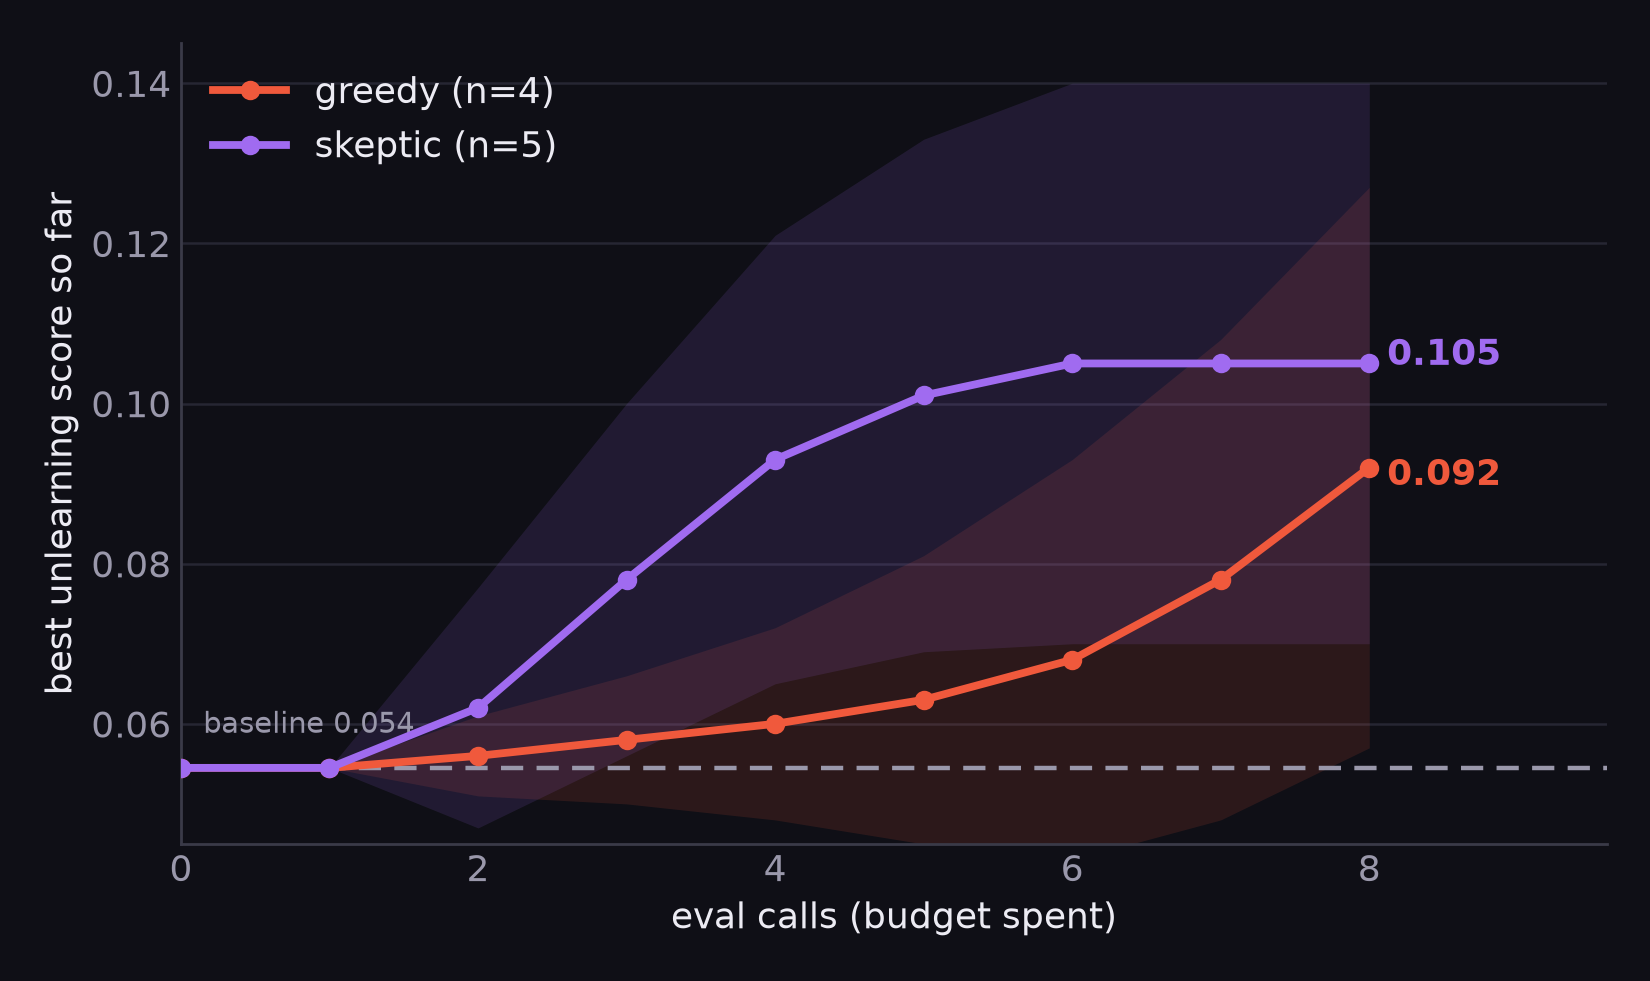
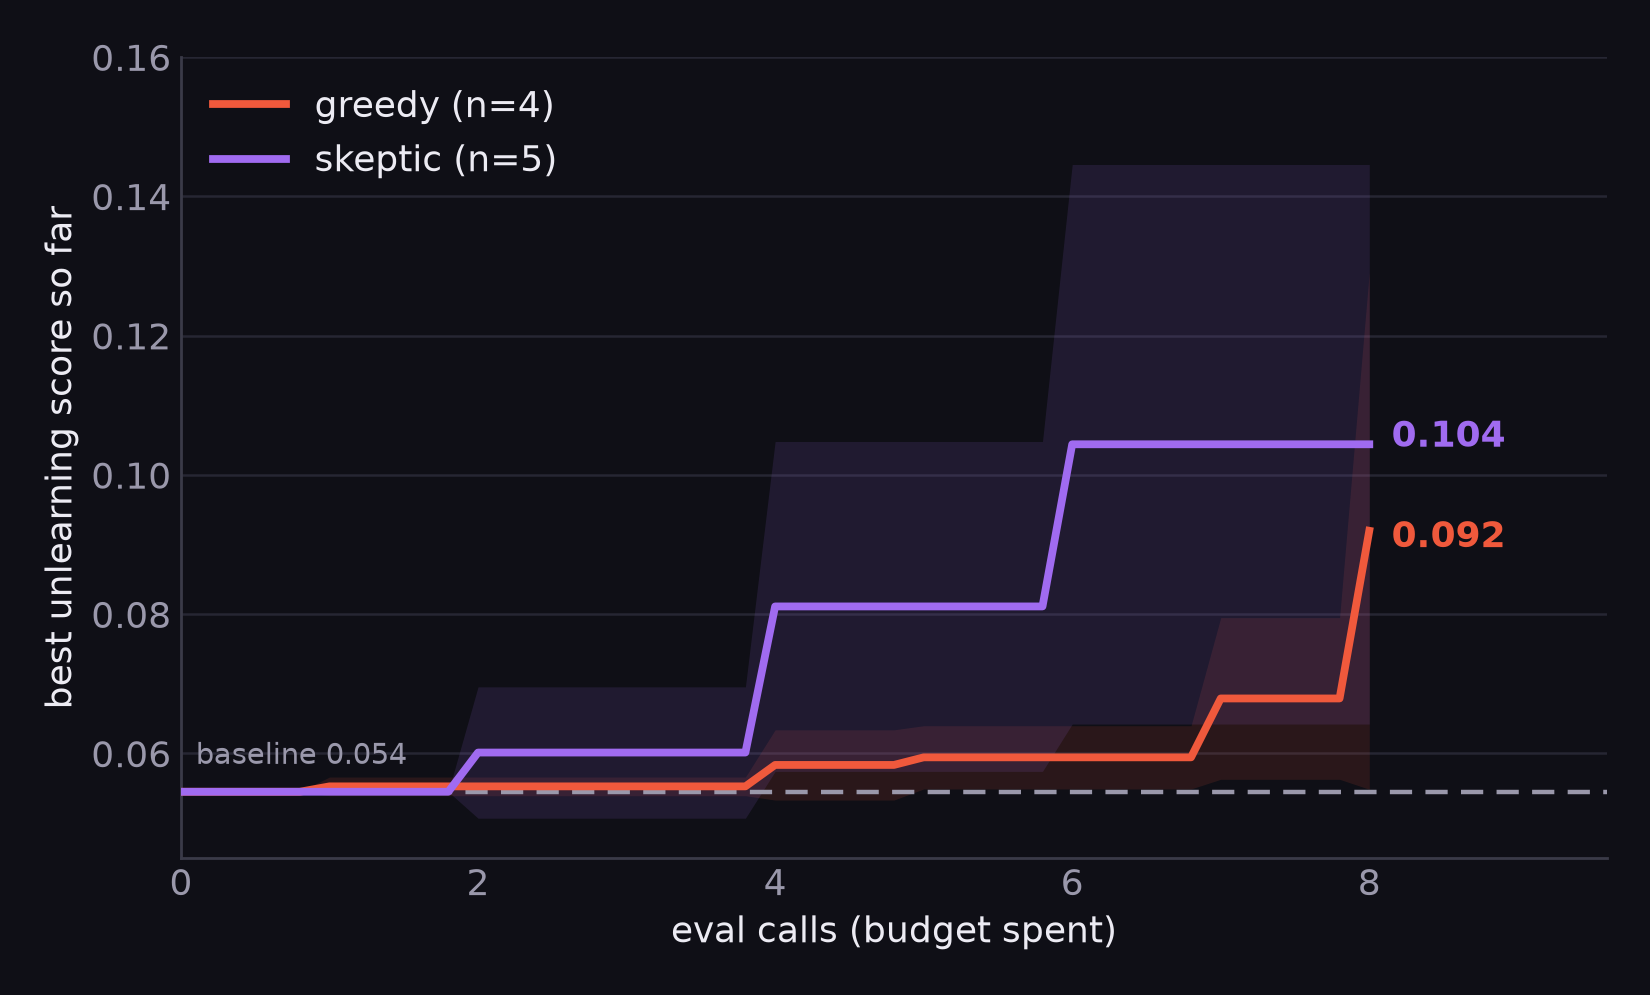
slides: real-data MLRC figure (budget-spent x-axis) + run logs + updated make_figs

diff --git a/slides/make_figs.py b/slides/make_figs.py
@@ -191,25 +191,54 @@ def skeptic_value():
 # =====================================================================
 # MLRC Machine Unlearning — greedy vs skeptic score progression
 # =====================================================================
+MLRC_DIR = Path(__file__).resolve().parent / "mlrc_runs"
+
+def _mu_runs(arm):
+    """Read each run's (budget_spent, best-so-far) trajectory from results.jsonl."""
+    import glob
+    runs = []
+    for f in sorted(glob.glob(str(MLRC_DIR / f"mlrc_{arm}_*.jsonl"))):
+        pts = []
+        for line in open(f):
+            d = json.loads(line)
+            if d.get("kind") == "baseline":
+                pts.append((0.0, d["score"]))
+            else:
+                pts.append((d["budget_spent_after"], d["incumbent_best"]))
+        if pts:
+            runs.append(sorted(pts))
+    return runs
+
+def _stepfill(pts, grid):
+    """Forward-fill best-so-far onto a common budget grid (x = eval calls spent)."""
+    out = []
+    for b in grid:
+        v = pts[0][1]
+        for pb, pv in pts:
+            if pb <= b + 1e-9: v = pv
+            else: break
+        out.append(v)
+    return np.array(out)
+
 def mlrc_result():
-    b = np.arange(0, 9); base = 0.0545
-    causal_m = np.array([0.0545,0.0545,0.062,0.078,0.093,0.101,0.105,0.105,0.105])
-    causal_s = np.array([0.0,0.0,0.015,0.022,0.028,0.032,0.035,0.035,0.035])
-    greedy_m = np.array([0.0545,0.0545,0.056,0.058,0.060,0.063,0.068,0.078,0.092])
-    greedy_s = np.array([0.0,0.0,0.005,0.008,0.012,0.018,0.025,0.030,0.035])
+    # REAL data from the team's MLRC runs; x = cumulative eval calls (budget spent),
+    # so greedy and causal both span 0->8 at equal compute (not the proposal-index axis).
+    grid = np.arange(0, 8.0001, 0.2); base = 0.0545
+    greedy = np.array([_stepfill(r, grid) for r in _mu_runs("greedy")])
+    causal = np.array([_stepfill(r, grid) for r in _mu_runs("causal")])
+    gm, gs = greedy.mean(0), greedy.std(0)
+    cm, cs = causal.mean(0), causal.std(0)
     fig, ax = plt.subplots(figsize=(9.2, 5.2)); style(ax)
     ax.axhline(base, color=MUTE, ls=(0, (5, 3)), lw=1.6)
-    ax.text(0.15, base + 0.0035, f"baseline {base:.3f}", color=MUTE, fontsize=10.5, va="bottom")
-    ax.fill_between(b, greedy_m-greedy_s, greedy_m+greedy_s, color=RED, alpha=0.13, lw=0)
-    ax.fill_between(b, causal_m-causal_s, causal_m+causal_s, color=PURPLE, alpha=0.13, lw=0)
-    ax.plot(b, greedy_m, "-o", color=RED, lw=2.8, ms=6, label="greedy (n=4)", zorder=5)
-    ax.plot(b, causal_m, "-o", color=PURPLE, lw=2.8, ms=6, label="skeptic (n=5)", zorder=5)
-    ax.text(8.12, causal_m[-1] + 0.001, f"{causal_m[-1]:.3f}", color=PURPLE, fontsize=13,
-            fontweight="bold", va="center")
-    ax.text(8.12, greedy_m[-1] - 0.001, f"{greedy_m[-1]:.3f}", color=RED, fontsize=13,
-            fontweight="bold", va="center")
+    ax.text(0.1, base + 0.003, f"baseline {base:.3f}", color=MUTE, fontsize=10.5, va="bottom")
+    ax.fill_between(grid, gm-gs, gm+gs, color=RED, alpha=0.12, lw=0)
+    ax.fill_between(grid, cm-cs, cm+cs, color=PURPLE, alpha=0.12, lw=0)
+    ax.plot(grid, gm, color=RED, lw=2.8, label=f"greedy (n={len(greedy)})", zorder=5)
+    ax.plot(grid, cm, color=PURPLE, lw=2.8, label=f"skeptic (n={len(causal)})", zorder=5)
+    ax.text(8.15, cm[-1] + 0.001, f"{cm[-1]:.3f}", color=PURPLE, fontsize=13, fontweight="bold", va="center")
+    ax.text(8.15, gm[-1] - 0.001, f"{gm[-1]:.3f}", color=RED, fontsize=13, fontweight="bold", va="center")
     ax.set_xlabel("eval calls (budget spent)"); ax.set_ylabel("best unlearning score so far")
-    ax.set_xlim(0, 9.6); ax.set_ylim(0.045, 0.145)
+    ax.set_xlim(0, 9.6); ax.set_ylim(0.045, 0.16)
     ax.legend(frameon=False, loc="upper left")
     save(fig, "mlrc_result.png")
 